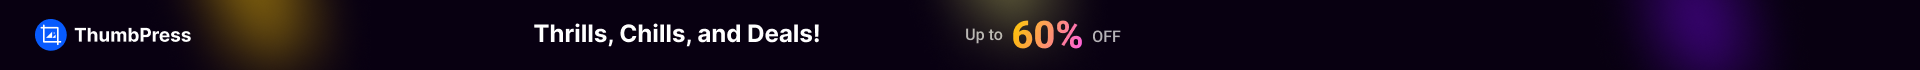
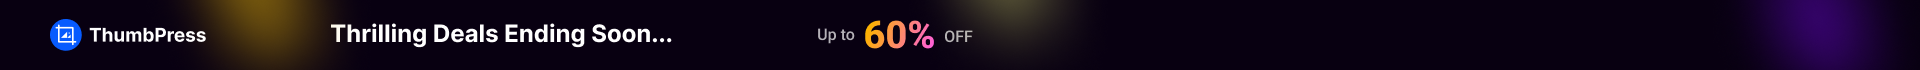
5.8.3

diff --git a/image-sizes/assets/css/settings/dashboard.css b/image-sizes/assets/css/settings/dashboard.css
@@ -1479,8 +1479,8 @@ ul.image_sizes-sortable.disable li span img.image_sizes-thumbnails-arrow-left {
 	display: flex;
 	gap: 0px;
 	background: url("../../img/year-end.png") no-repeat;
-	background-size: cover;
-	padding: 22px 0px 22px 0px;
+	background-size: contain;
+	padding: 11px 0px 9px 0px;
 }
 .image-sizes-dismissible-notice a {
 	text-decoration: none;
@@ -1502,4 +1502,72 @@ ul.image_sizes-sortable.disable li span img.image_sizes-thumbnails-arrow-left {
 .image-sizes-dismissible-notice .image-sizes-dismissible-notice-button:hover {
 	border-bottom: none;
 }
+
+.image-sizes-dismissible-notice-content {
+	display: flex;
+	align-items: center;
+	gap: 80px;
+	margin-left: 140px;
+}
+.image-sizes-countdown {
+	margin-left: 100px;
+}
+.image-sizes-count {
+	display: inline-block;
+	margin: 0 10px;
+	text-align: center;
+	width: 48px;
+	height: 42px;
+	background-image: radial-gradient(
+			circle at 100% 100%,
+			transparent 1px,
+			#ffffff 1px,
+			#ffffff 2px,
+			transparent 2px
+		),
+		linear-gradient(to right, #ffffff, #ffffff),
+		radial-gradient(
+			circle at 0% 100%,
+			transparent 1px,
+			#ffffff 1px,
+			#ffffff 2px,
+			transparent 2px
+		),
+		linear-gradient(to bottom, #ffffff, transparent),
+		radial-gradient(
+			circle at 0% 0%,
+			transparent 1px,
+			transparent 1px,
+			transparent 2px,
+			transparent 2px
+		),
+		linear-gradient(to left, transparent, transparent),
+		radial-gradient(
+			circle at 100% 0%,
+			transparent 1px,
+			transparent 1px,
+			transparent 2px,
+			transparent 2px
+		),
+		linear-gradient(to top, transparent, #ffffff);
+	background-size: 2px 2px, calc(100% - 2px) 1px, 2px 2px,
+		1px calc(100% - 2px);
+	background-position: top left, top center, top right, center right,
+		bottom right, bottom center, bottom left, center left;
+	background-repeat: no-repeat;
+	text-align: center;
+}
+
+.image-sizes-count span {
+	display: block;
+	font-size: 18px;
+	font-weight: bold;
+	color: #ffffff;
+}
+
+.image-sizes-count label {
+	font-size: 10px;
+	color: #ffffff;
+}
+
 /* Notice css End */

diff --git a/image-sizes/assets/js/admin.js b/image-sizes/assets/js/admin.js
@@ -376,3 +376,33 @@ jQuery(function ($) {
 		}
 	);
 });
+document.addEventListener("DOMContentLoaded", function () {
+	var countdownElements = document.querySelectorAll(".image-sizes-countdown");
+
+	countdownElements.forEach(function (element) {
+		var endTime = new Date(
+			element.getAttribute("data-countdown-end")
+		).getTime();
+		var timer = setInterval(function () {
+			var now = new Date().getTime();
+			var t = endTime - now;
+			if (t >= 0) {
+				element.querySelector("#days").innerText = Math.floor(
+					t / (1000 * 60 * 60 * 24)
+				);
+				element.querySelector("#hours").innerText = Math.floor(
+					(t % (1000 * 60 * 60 * 24)) / (1000 * 60 * 60)
+				);
+				element.querySelector("#minutes").innerText = Math.floor(
+					(t % (1000 * 60 * 60)) / (1000 * 60)
+				);
+				element.querySelector("#seconds").innerText = Math.floor(
+					(t % (1000 * 60)) / 1000
+				);
+			} else {
+				clearInterval(timer);
+				element.innerHTML = "EXPIRED";
+			}
+		}, 1000);
+	});
+});

diff --git a/image-sizes/inc/functions.php b/image-sizes/inc/functions.php
@@ -67,7 +67,7 @@ function thumbpress_modules() {
 		'image-replace'          => [
 			'id'                 => 'image-replace',
 			'title'              => __( 'Replace Images With New Version', 'thumbpress' ),
-			'desc'               => __( 'Upload new versions of images and replace the old ones without any issues.', 'codesigner' ),
+			'desc'               => __( 'Upload new versions of images and replace the old ones without any issues.', 'image-sizes' ),
 			'class'              => 'Image_Replace',
 			'url'                => esc_url( 'https://thumbpress.co/modules/replace-image-with-new-version/?utm_source=in-plugin&utm_medium=Modules+Page+&utm_campaign=Replace+Images+/' ),
 			'pro'                => true,
@@ -254,7 +254,7 @@ endif;
 // 				),
 // 				'from'			=> $current_time + 240 * HOUR_IN_SECONDS,
 // 				'to'			=>  $current_time + 288 * HOUR_IN_SECONDS,
-// 				'button'		=> __( 'Detect & Delete Large Images', 'codesigner' ),
+// 				'button'		=> __( 'Detect & Delete Large Images', 'image-sizes' ),
 // 				'url'			=> "https://thumbpress.co/pricing/?utm_source=In-plugin&utm_medium=offer+notice&utm_campaign=Detect+Large+Images"
 // 			],
 // 		];
@@ -266,13 +266,41 @@ if( ! function_exists( 'image_sizes_notices_values' ) ) :
 
 		return [
 			'promotional_images' => [
-				'from'   => $current_time,
-				'to'     => $current_time + 48 * HOUR_IN_SECONDS,
-				'button' => __('Grab Now', 'image-sizes'),
-				'url'    => "https://thumbpress.co/pricing/?utm_source=IN+PLUGIN&utm_medium=NOTICE&utm_campaign=OCTOBER+THRILLS",
+				'from'   		=> $current_time,
+				// 'to'     => $current_time + 48 * HOUR_IN_SECONDS,
+				'to'    		=> date_i18n( 'Y/m/d H:i:s', strtotime( '2024-11-5 00:00:00' ) ),
+				'button' 		=> __('Grab Now', 'image-sizes'),
+				'url'    		=> "https://thumbpress.co/pricing/?utm_source=IN+PLUGIN&utm_medium=NOTICE&utm_campaign=OCTOBER+THRILLS",
+				'countdown_to' 	=> date_i18n( 'Y/m/d H:i:s', strtotime( '2024-11-5 00:00:00' ) ),
 			],
 		];
 	}
+endif;
+
+
+if( ! function_exists( 'get_image_sizes_countdown_html' ) ) :
+	function get_image_sizes_countdown_html( $from, $to ) {
+		return '
+		<div class="image-sizes-countdown" id="image-sizes-countdown" data-countdown-end="'.$to.'">
+			<div class="image-sizes-count">
+				<span id="days"></span>
+				<label>DAYS</label>
+			</div>
+			<div class="image-sizes-count">
+				<span id="hours"></span>
+				<label>HRS</label>
+			</div>
+			<div class="image-sizes-count">
+				<span id="minutes"></span>
+				<label>MINS</label>
+			</div>
+			<div class="image-sizes-count">
+				<span id="seconds"></span>
+				<label>SEC</label>
+			</div>
+		</div>';
+	}
+	
 endif;
 
 /**

diff --git a/image-sizes/app/Admin.php b/image-sizes/app/Admin.php
@@ -279,20 +279,25 @@ class Admin extends Base {
 				foreach ( image_sizes_notices_values() as $id => $notice ) {
 					$transient = get_transient( $id );
 					$current_time = date_i18n('U');
-					if ($transient && $transient['from'] < $current_time && $current_time < $transient['to']) {
+					// $current_time = date_i18n( 'Y/m/d H:i:s', strtotime( '2024-11-4 10:00:00' ) );
+					if ( $transient && $transient[ 'from' ] < $current_time && $current_time < strtotime( $transient[ 'to' ] ) ) {
 						printf(
 							'<div class="notice notice-info is-dismissible image-sizes-dismissible-notice">
 								<p>
 									<a class="notice-dismiss" href="%1$s"></a>
 								</p>
-								<div class="button-wrapper">
-									<a href="%4$s" class="image-sizes-dismissible-notice-button" data-id="%2$s">%3$s</a>
+								<div class="image-sizes-dismissible-notice-content">
+									%5$s
+									<div class="button-wrapper">
+										<a href="%4$s" class="image-sizes-dismissible-notice-button" data-id="%2$s">%3$s</a>
+									</div>
 								</div>
 							</div>',
 							esc_url( add_query_arg('dismiss', $id ) ),
 							esc_attr( $id ),
 							esc_html( $notice['button'] ),
-							esc_url( $notice['url'] )
+							esc_url( $notice['url'] ),
+							get_image_sizes_countdown_html( $notice[ 'from' ], $notice[ 'countdown_to' ] )
 						);
 						break;	
 					}

diff --git a/image-sizes/image-sizes.php b/image-sizes/image-sizes.php
@@ -4,7 +4,7 @@
  * Plugin Name:			ThumbPress
  * Plugin URI:			https://thumbpress.co
  * Description:			A complete image and thumbnail management solution for WordPress.
- * Version:				5.8.2
+ * Version:				5.8.3
  * Requires at least:	5.0
  * Requires PHP:		7.0
  * Tested up to:		6.6
